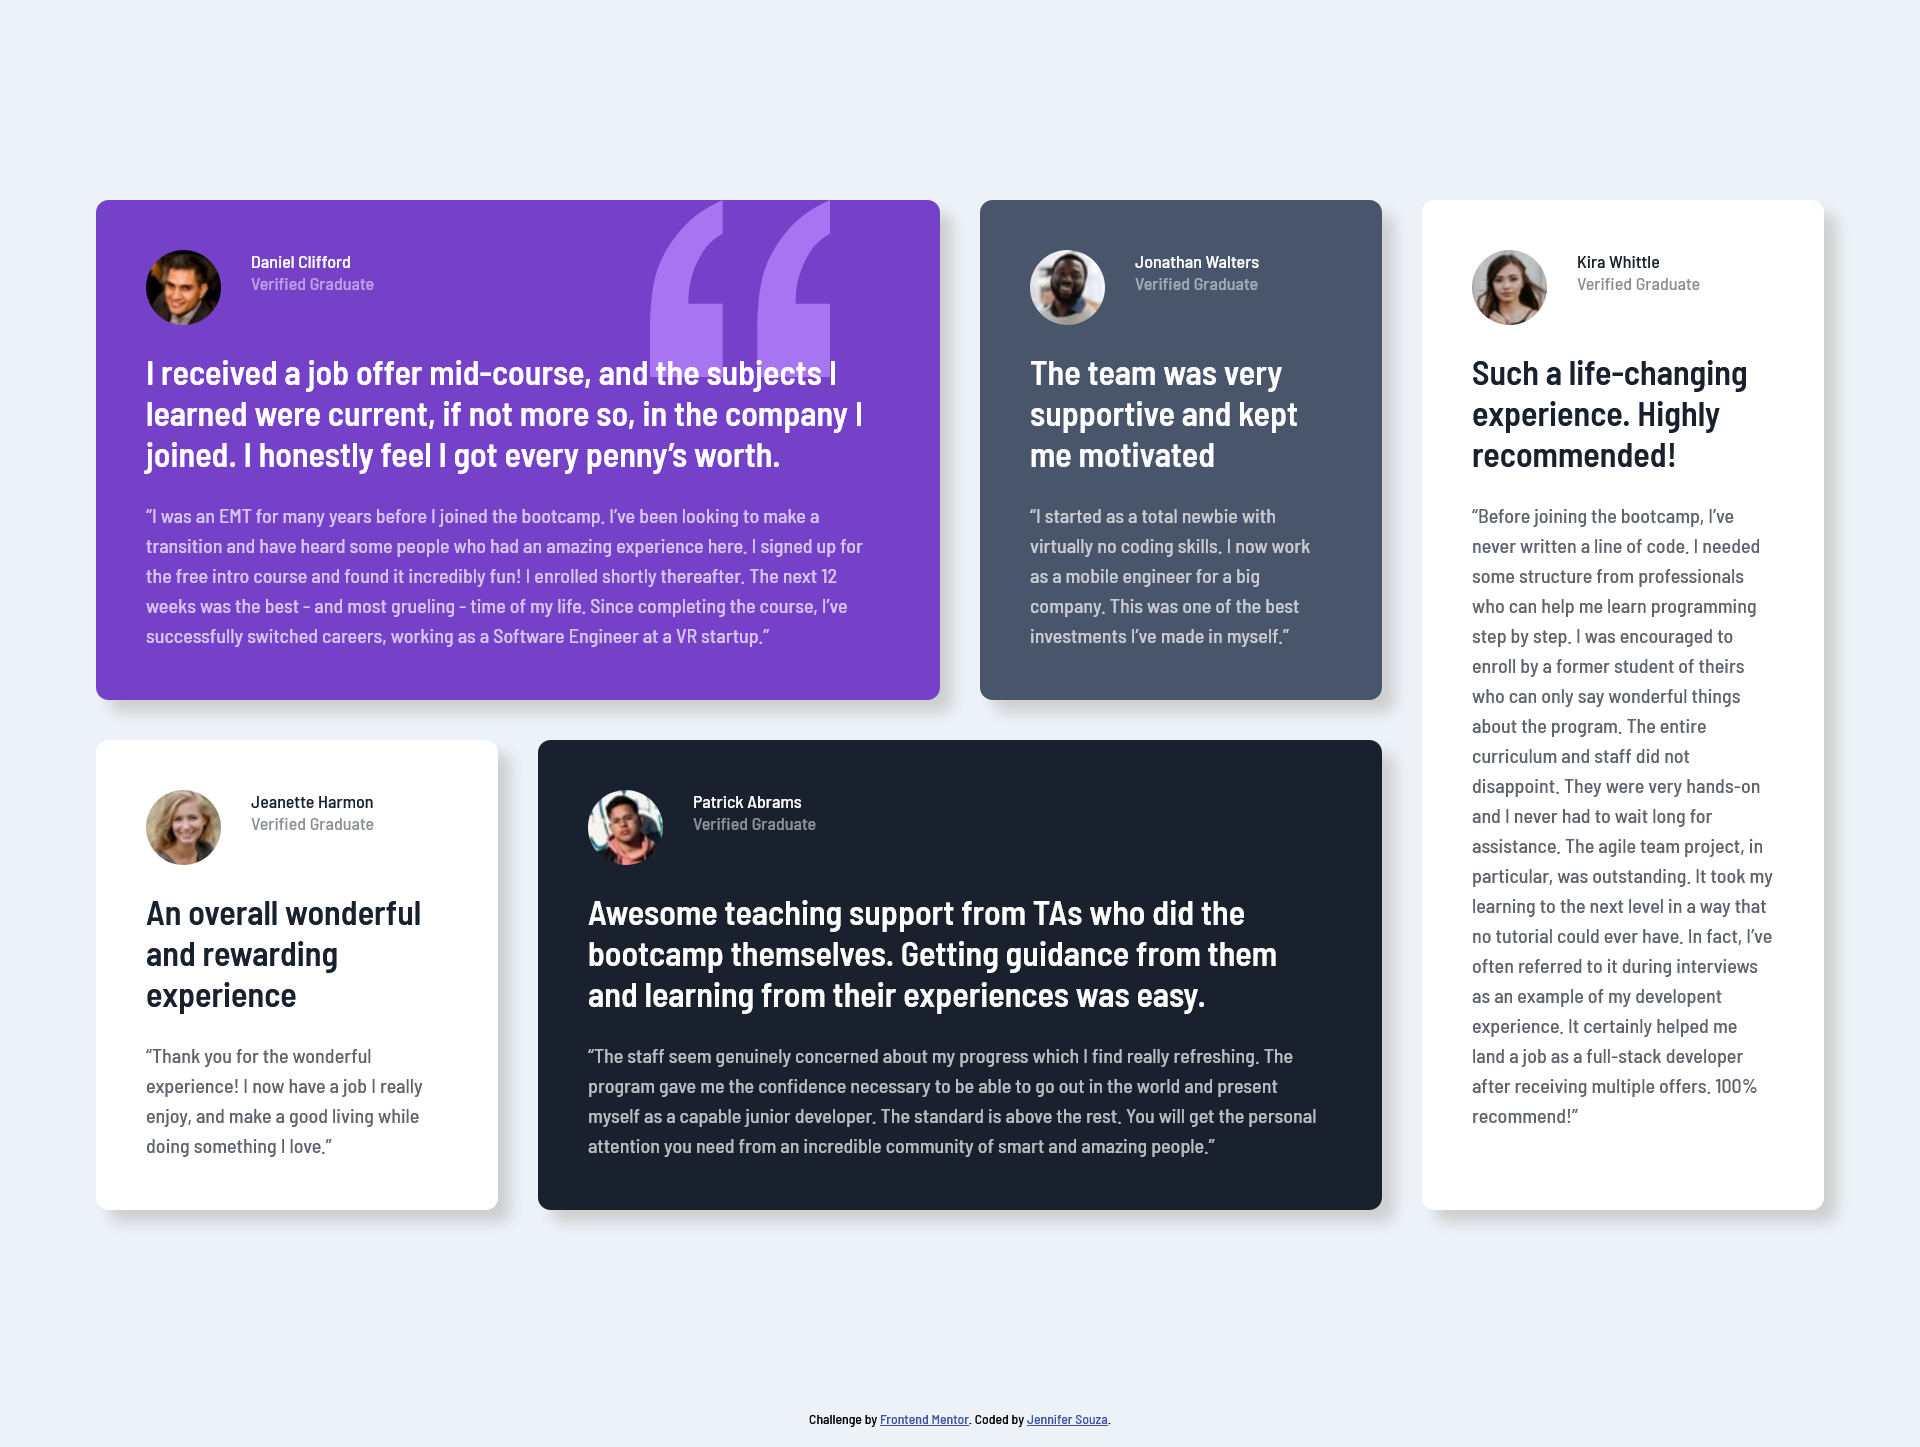
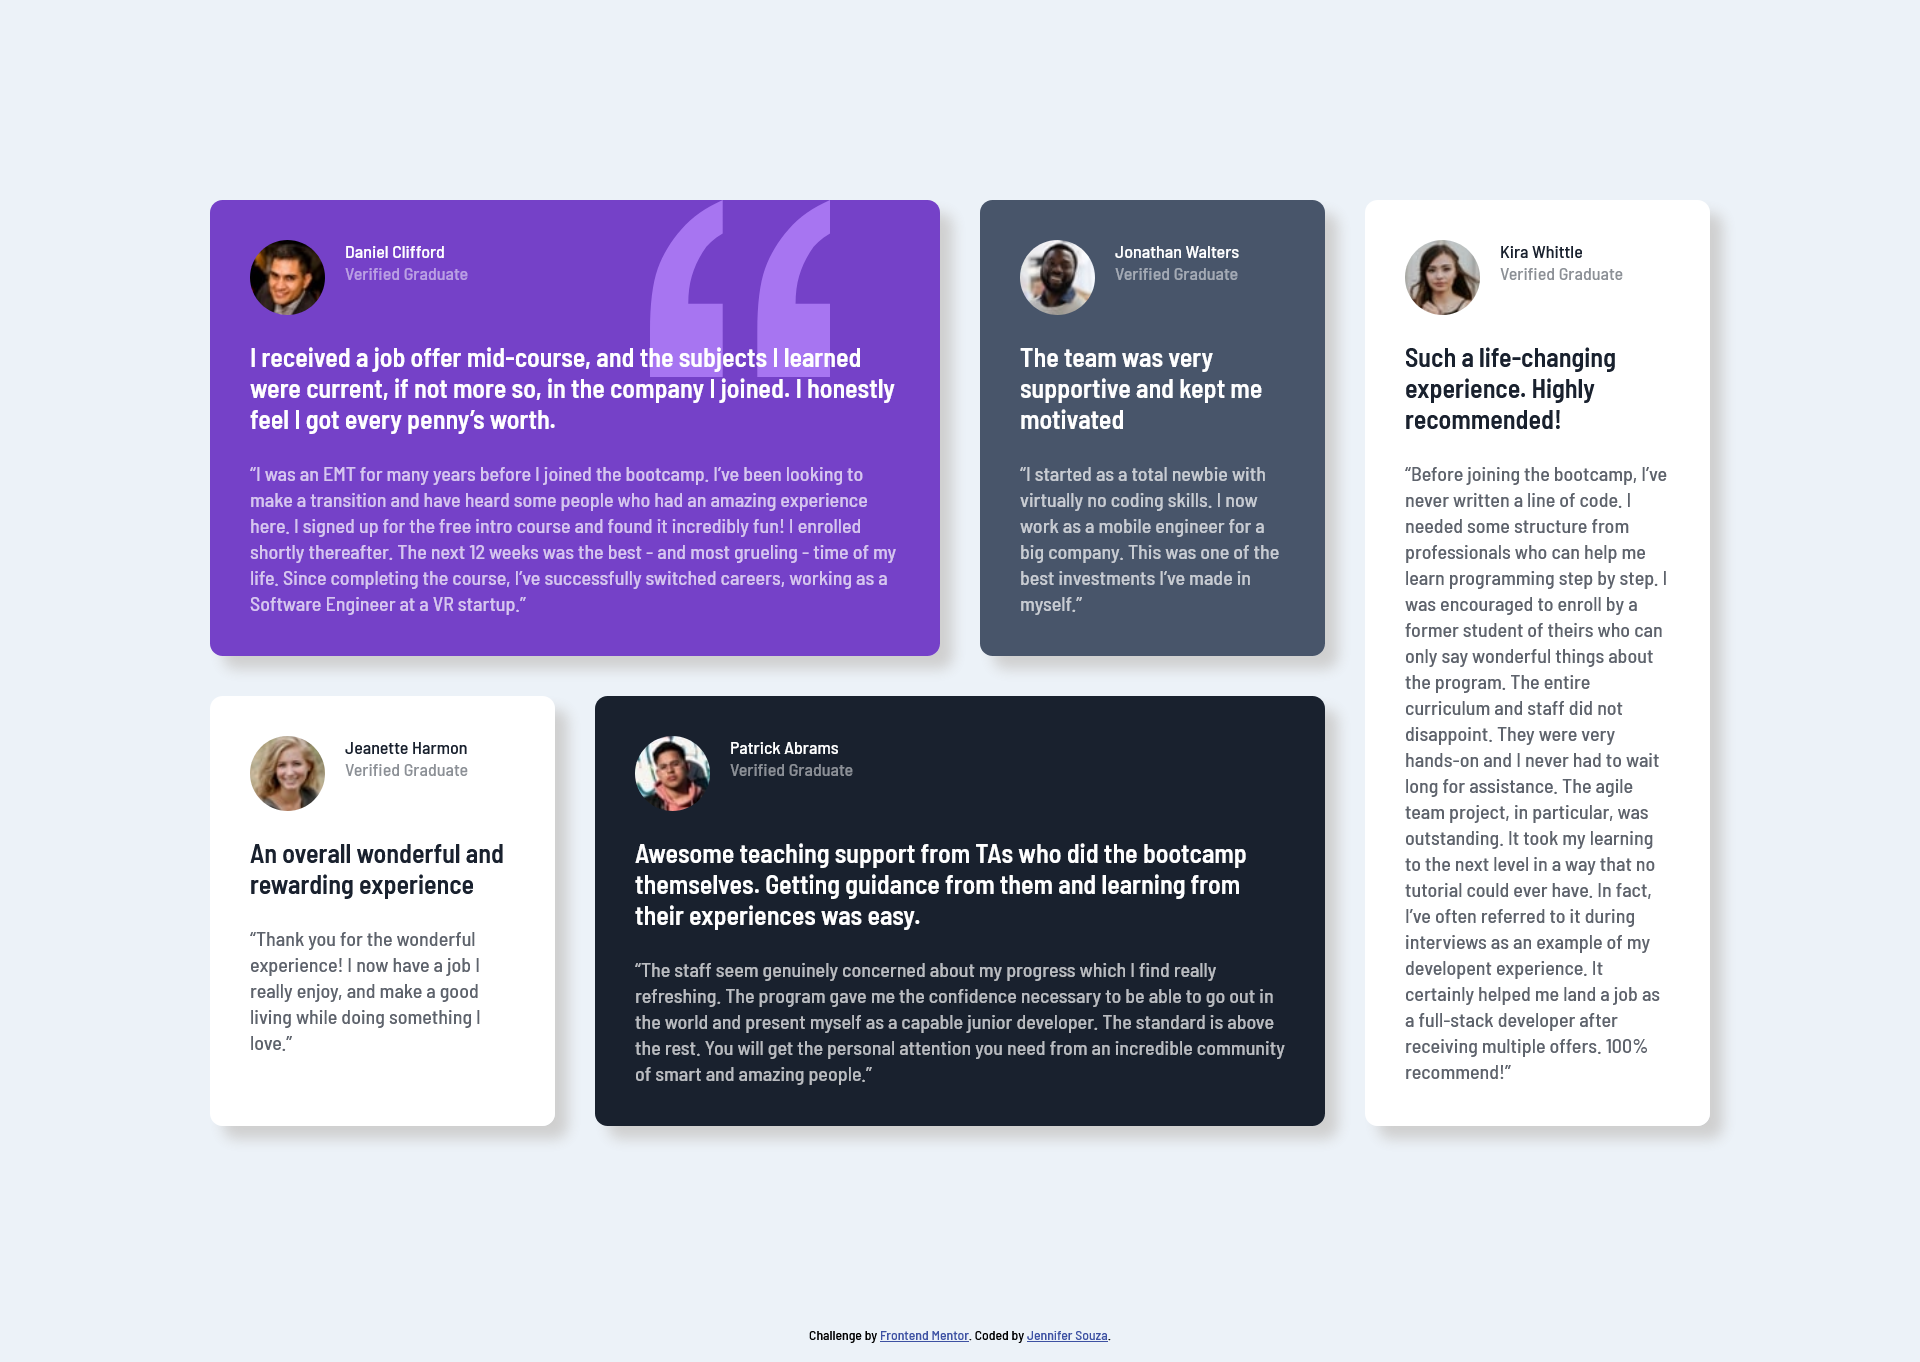
Add files via upload

Changed region(s): [[0.0312, 0.1233, 0.9688, 0.8634], [0.5312, 0.9559, 0.5625, 0.9868], [0.4688, 0.9559, 0.5, 0.9868]]

diff --git a/style.css b/style.css
@@ -15,7 +15,7 @@ img {
     --font-wt-normal: 500;
     --font-wt-bold: 600;
 
-    --card-padding: 2.5rem;
+    --card-padding: 2rem;
 
     /* ### Primary */
     --card-bg-bright: hsl(263, 55%, 52%);
@@ -68,7 +68,7 @@ p {
 .heading-container {
     display: flex;
     flex-flow: row nowrap;
-    gap: 1.5rem;
+    gap: 1rem;
 }
 
 .testimonial-headshot {
@@ -92,7 +92,7 @@ p {
 
 .card q {
     color: var(--card-quote-light);
-    line-height: 1.5rem;
+    line-height: 1.3rem;
     font-size: 1rem;
 }
 
@@ -133,7 +133,8 @@ p {
 
 @media (min-width:1000px) {
 
-    .grid-container {       
+    .grid-container {  
+        max-width: 1200px;     
         margin: 10rem auto;       
         grid-template-columns: repeat(4, 1fr);   
     }
@@ -167,8 +168,5 @@ p {
         background-position: top right 5.5rem;
     }
 
-    .highlighted {
-        font-size: 1.7rem;
-    }
 }
 
